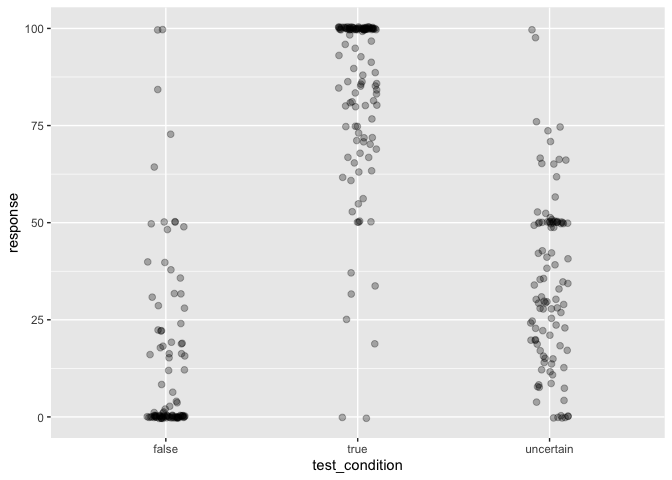
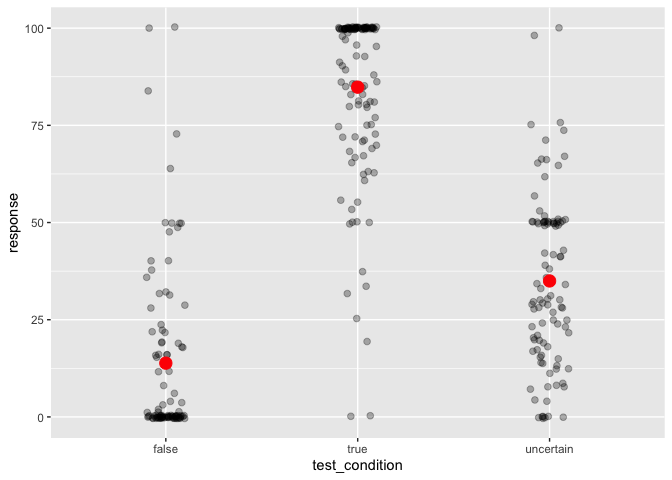
prettify, add timeSpent and by-item plots

diff --git a/analysis/xor-some-prolific-pilot1.md b/analysis/xor-some-prolific-pilot1.md
@@ -16,29 +16,33 @@ question, and then competence / relevance questions in randomized order
 again.
 
 N=10 participants were recruited for this pilot and compensated 2
-pounds/participant.
+pounds/participant. 8 items (4 some + 4 xor) were manually selected for
+this pilot to get more data points per item.
 
 ``` r
 library(tidyverse)
 ```
 
-    ## -- Attaching packages --------------------------------------- tidyverse 1.3.0 --
+    ## ── Attaching packages ────────────────────────────────────────────────────── tidyverse 1.3.0 ──
 
-    ## v ggplot2 3.3.2     v purrr   0.3.4
-    ## v tibble  3.0.4     v dplyr   1.0.2
-    ## v tidyr   1.1.2     v stringr 1.4.0
-    ## v readr   1.4.0     v forcats 0.5.0
+    ## ✓ ggplot2 3.3.1     ✓ purrr   0.3.4
+    ## ✓ tibble  3.0.1     ✓ dplyr   1.0.0
+    ## ✓ tidyr   1.1.0     ✓ stringr 1.4.0
+    ## ✓ readr   1.3.1     ✓ forcats 0.5.0
 
-    ## -- Conflicts ------------------------------------------ tidyverse_conflicts() --
+    ## ── Conflicts ───────────────────────────────────────────────────────── tidyverse_conflicts() ──
     ## x dplyr::filter() masks stats::filter()
     ## x dplyr::lag()    masks stats::lag()
+
+``` r
+library(tidyboot)
+```
 
 ``` r
 d <- read_csv("../data/pilots/results_58_xor-some-Prolific-pilot1_N10.csv")
 ```
 
-    ## 
-    ## -- Column specification --------------------------------------------------------
+    ## Parsed with column specification:
     ## cols(
     ##   .default = col_character(),
     ##   submission_id = col_double(),
@@ -55,7 +59,8 @@ d <- read_csv("../data/pilots/results_58_xor-some-Prolific-pilot1_N10.csv")
     ##   timeSpent = col_double(),
     ##   trial_number = col_double()
     ## )
-    ## i Use `spec()` for the full column specifications.
+
+    ## See spec(...) for full column specifications.
 
 Checking if there are any comments indicating technical issues:
 
@@ -147,7 +152,7 @@ d_native %>% count(title)
     ## # A tibble: 9 x 2
     ##   title                                                                        n
     ##   <chr>                                                                    <int>
-    ## 1 "<font size=\"4\" color= \"#00BFFF\"> EXAMPLE </font> <br/> Joe's shopp~    40
+    ## 1 "<font size=\"4\" color= \"#00BFFF\"> EXAMPLE </font> <br/> Joe's shopp…    40
     ## 2 "Brad's clothes"                                                           110
     ## 3 "Carl's party"                                                             110
     ## 4 "Harry Potter"                                                             100
@@ -157,33 +162,32 @@ d_native %>% count(title)
     ## 8 "Van Gogh exhibition"                                                      100
     ## 9 "Youth hostel"                                                             100
 
+Check the time participants spent overall on the experiment:
+
+``` r
+overall_timeSpent <- d_native %>% mutate(timeSpent = round(timeSpent, 2)) %>% distinct(timeSpent) 
+
+#  summarize(timeCounts = count(timeSpent) / d_native %>% )
+ggplot(data = overall_timeSpent, aes(y=timeSpent, alpha = 0.7)) +
+  geom_boxplot() +
+  ggtitle("Overall time participants took")
+```
+
+![](xor-some-prolific-pilot1_files/figure-gfm/responseTime-1.png)<!-- -->
+
 Next, we would exclude participants based on their ratings in the main /
 example trials (and possibly the bot check) according to preregistered
 exclusion criteria. For now, all the data is considered.
 
 ``` r
-d_native %>% group_by(submission_id) %>% count(response)
-```
-
-    ## # A tibble: 398 x 3
-    ## # Groups:   submission_id [10]
-    ##    submission_id response     n
-    ##            <dbl>    <dbl> <int>
-    ##  1          1828        0     3
-    ##  2          1828        4     1
-    ##  3          1828        7     1
-    ##  4          1828       12     3
-    ##  5          1828       16     1
-    ##  6          1828       22     1
-    ##  7          1828       24     3
-    ##  8          1828       25     2
-    ##  9          1828       26     1
-    ## 10          1828       28     3
-    ## # ... with 388 more rows
-
-``` r
-d_main <- d_native %>% filter(trial_name != "example")
-d_exmpl <- d_native %>% filter(trial_name == "example")
+d_main <- d_native %>% select(-age, -botresponse, -comments, -education, -endTime, 
+                              -gender, -languages, -optionLeft, -optionRight, -startDate,
+                              -startTime, -timeSpent) %>%
+  filter(trial_name != "example")
+d_exmpl <- d_native %>% select(-age, -botresponse, -comments, -education, -endTime, 
+                              -gender, -languages, -optionLeft, -optionRight, -startDate,
+                              -startTime, -timeSpent) %>%
+  filter(trial_name == "example")
 d_critical <- d_main %>% filter(condition == "critical")
 
 # get overall mean ratings / subject
@@ -216,35 +220,34 @@ d_test <- d_main %>% rowwise() %>% filter(condition == "test") %>%
          test_condition = ifelse(test_condition == "fals", "false", 
                                  ifelse(test_condition == "unce", "uncertain",
                                         test_condition)))
+d_test_ci <- d_test %>% group_by(test_condition) %>% 
+  tidyboot_mean(column = response) 
+```
 
+    ## Warning: `as_data_frame()` is deprecated as of tibble 2.0.0.
+    ## Please use `as_tibble()` instead.
+    ## The signature and semantics have changed, see `?as_tibble`.
+    ## This warning is displayed once every 8 hours.
+    ## Call `lifecycle::last_warnings()` to see where this warning was generated.
+
+    ## Warning: `cols` is now required when using unnest().
+    ## Please use `cols = c(strap)`
+
+``` r
 d_test %>% 
   ggplot(., aes(x = test_condition, y = response)) +
-  geom_point(size = 2, alpha = 0.3, position = position_jitter(width = 0.1))
+  geom_point(size = 2, alpha = 0.3, position = position_jitter(width = 0.1)) +
+  geom_point(data = d_test_ci, aes(x = test_condition, y = mean), color = "red", 
+             size = 4) 
 ```
 
 ![](xor-some-prolific-pilot1_files/figure-gfm/unnamed-chunk-1-1.png)<!-- -->
 
-``` r
-# add mean / CI
-```
-
-Plot main rel / comp / pri questions by main condition
-
-``` r
-d_critical <- d_critical %>% 
-  pivot_longer(c(competence, relevance, prior), 
-               names_to = "class_condition", 
-               values_to = "prior_class")
-d_critical %>% 
-  filter(block != "xor" & block != "some") %>%
-  ggplot(., aes(x = as.factor(prior_class), y = response)) +
-  geom_point(size = 2, alpha = 0.3, position = position_jitter(width = 0.1)) +
-    facet_wrap(main_type~class_condition)
-```
-
-![](xor-some-prolific-pilot1_files/figure-gfm/unnamed-chunk-2-1.png)<!-- -->
-Plot main rel / comp questions by main condition, separated into with /
-without critical utterance
+Plot main rel / comp / prior questions by main condition and by prior
+classification of the item (x-axis), separated into with / without
+critical utterance (shape, color). Only high-competence items were used
+for the some trials (only low-competence in the xor trials,
+respectively). This will be balanced in the main study.
 
 ``` r
 # add info to already record this
@@ -252,56 +255,76 @@ d_critical <- d_critical %>%
   mutate(w_utterance = ifelse(is.na(critical_question), F, T),
          block = ifelse(block == "comp", "competence", 
                         ifelse(block == "rel", "relevance", ifelse(block == "pri", "prior", block) )))
-
-d_critical %>% 
-  filter(block != "xor" & block != "some") %>%
-  filter(block == class_condition) %>%
-  ggplot(., aes(x = as.factor(prior_class), y = response, color = w_utterance)) +
-  geom_point(size = 2, alpha = 0.3, position = position_jitter(width = 0.1)) +
-    facet_wrap(main_type~class_condition) # get ratings from the respective trials only 
-```
-
-![](xor-some-prolific-pilot1_files/figure-gfm/unnamed-chunk-3-1.png)<!-- -->
-
-``` r
-# use block for getting the actual correct ratings, but class_condition for subsetting the prior classification fo the respective predictor 
-
-# # some condition was wrongly recorded as pri
-# d_critical %>% 
-#      filter(block != "xor" & block != "some") %>%
-#      filter(block == class_condition) %>% filter(block == "prior" & w_utterance == T) %>%
-#   View()
- 
 d_critical %>% 
   filter(block != "xor" & block != "some") %>%
   filter(block == class_condition) %>%
   group_by(main_type, class_condition, w_utterance, prior_class) %>% 
-  summarize(mean_response = mean(response))
+  summarize(mean_response = mean(response)) -> d_critical_summary
 ```
 
     ## `summarise()` regrouping output by 'main_type', 'class_condition', 'w_utterance' (override with `.groups` argument)
 
-    ## # A tibble: 16 x 5
-    ## # Groups:   main_type, class_condition, w_utterance [10]
-    ##    main_type class_condition w_utterance prior_class mean_response
-    ##    <chr>     <chr>           <lgl>             <dbl>         <dbl>
-    ##  1 some      competence      FALSE                 1          78.1
-    ##  2 some      competence      TRUE                  1          77.5
-    ##  3 some      prior           FALSE                 0          30.3
-    ##  4 some      prior           FALSE                 1          51.4
-    ##  5 some      relevance       FALSE                 0          43.2
-    ##  6 some      relevance       FALSE                 1          75.3
-    ##  7 some      relevance       TRUE                  0          48.8
-    ##  8 some      relevance       TRUE                  1          76.4
-    ##  9 xor       competence      FALSE                 0          42.2
-    ## 10 xor       competence      TRUE                  0          59  
-    ## 11 xor       prior           FALSE                 0          36.8
-    ## 12 xor       prior           FALSE                 1          57.9
-    ## 13 xor       relevance       FALSE                 0          39.2
-    ## 14 xor       relevance       FALSE                 1          42.0
-    ## 15 xor       relevance       TRUE                  0          44.4
-    ## 16 xor       relevance       TRUE                  1          42.8
+``` r
+d_critical %>% 
+  filter(block != "xor" & block != "some") %>%
+  filter(block == class_condition) %>%
+  ggplot(., aes(x = as.factor(prior_class), y = response, shape = w_utterance, color = w_utterance)) +
+  geom_point(size = 2, alpha = 0.6, position = position_jitter(width = 0.1)) +
+  geom_point(data = d_critical_summary, aes(x = as.factor(prior_class), y = mean_response, shape = w_utterance), 
+             color = "red", size = 3) +
+  xlab("Anticipated categorization of the items (low / high)") +
+  facet_wrap(main_type~class_condition) # get ratings from the respective trials only 
+```
 
-plot inference rating as a function of respective rating of the
-explanatory factor (think about a plot where one would see an
-interaction)
+![](xor-some-prolific-pilot1_files/figure-gfm/unnamed-chunk-3-1.png)<!-- -->
+
+Plot inference ratings as a function of *anticipated* rating of the
+explanatory factor, similar to the paper:
+
+``` r
+d_critical %>% 
+  filter(block == "xor" | block == "some") %>%
+  #group_by(block, class_condition, prior_class) %>%
+  #summarize(mean_rating = mean(response)) %>%
+  ggplot(., aes(x = prior_class, y = response)) +
+  geom_point(size = 2, alpha = 0.5) +
+  geom_line() +
+  facet_wrap(block~class_condition) +
+  xlab("Anticipated categorization of the items") +
+  ggtitle("Mean inference strength ratings by-predictor")
+```
+
+![](xor-some-prolific-pilot1_files/figure-gfm/unnamed-chunk-4-1.png)<!-- -->
+
+Plot mean ratings (across all 10 participants) for each vignette (with
+its respective condition indicated in the facet title, in the order
+relevance/competence/prior), in each condition. For relevance and
+competence, the color indicates whether it was presented without the
+utterance or with.
+
+``` r
+bar.width = 0.8
+d_critical %>% 
+  mutate(title = paste(title, exp_condition, sep = "_")) %>%
+  filter(block == class_condition | block == "xor" | block == "some") %>%
+  group_by(block, title, w_utterance, main_type) %>%
+  summarize(mean_rating = mean(response)) %>% 
+  ggplot(., aes(x = block, y = mean_rating, fill = w_utterance)) +
+  geom_col(alpha = 0.7, width = bar.width, position = position_dodge(width = bar.width)) +
+  #geom_point(size = 2, alpha = 0.5, position = position_jitter(width = 0.1)) +
+  facet_wrap(main_type~title, ncol = 4) +
+  theme(axis.text.x = element_text(angle = 45)) +
+  ggtitle("By-item by-question mean ratings")
+```
+
+    ## `summarise()` regrouping output by 'block', 'title', 'w_utterance' (override with `.groups` argument)
+
+![](xor-some-prolific-pilot1_files/figure-gfm/unnamed-chunk-5-1.png)<!-- -->
+
+In conclusion, the technical side of the experiment seems to work
+without glitches; participants perform as expected on the comprehension
+questions; the relevance / competence / prior ratings seem to be mostly
+in line with our anticipated categorizations.
+
+One point to note is that on average participants took slightly longer
+than the expected 15 minutes to complete the experiment.
